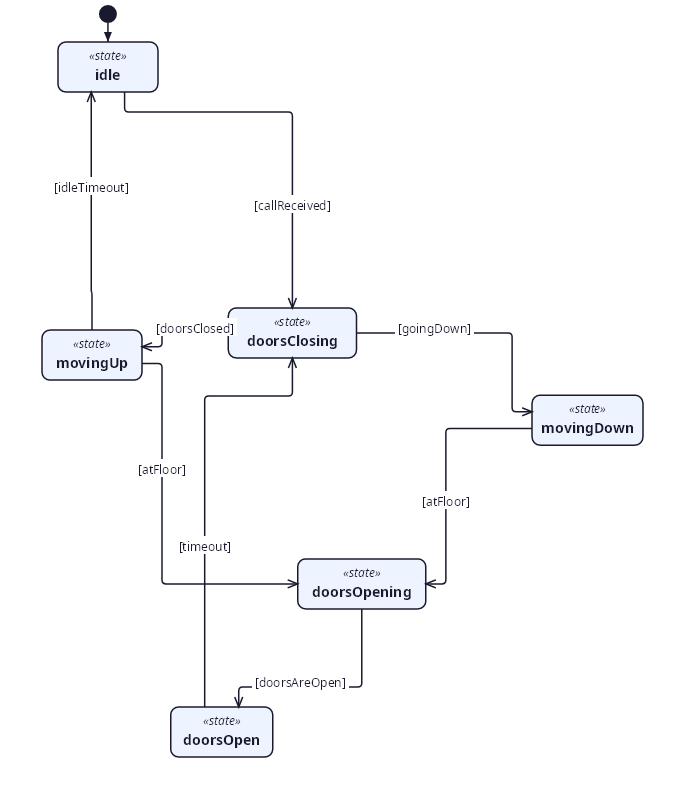
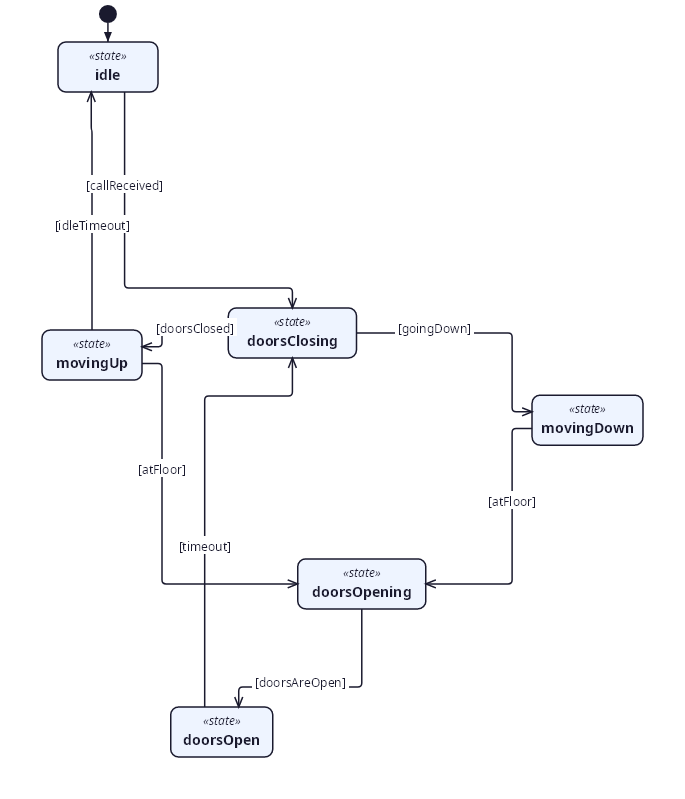
docs(gallery): regenerate gallery with Phase 14b highway routing

diff --git a/ROADMAP.md b/ROADMAP.md
@@ -279,7 +279,7 @@ minor update.
 no excessive whitespace; TrafficLightStates and OrderActionFlow show clean top-to-bottom
 flow; no regression on any existing gallery model.
 
-### Phase 14b — Layout Engine v2: Highway Routing
+### Phase 14b — Layout Engine v2: Highway Routing — ✅ Complete
 
 Layer the highway assignment algorithm (Step 4) on top of the Phase 14a pipeline,
 upgrading GravityCompressor to honour corridor constraints and ChannelRouter to apply